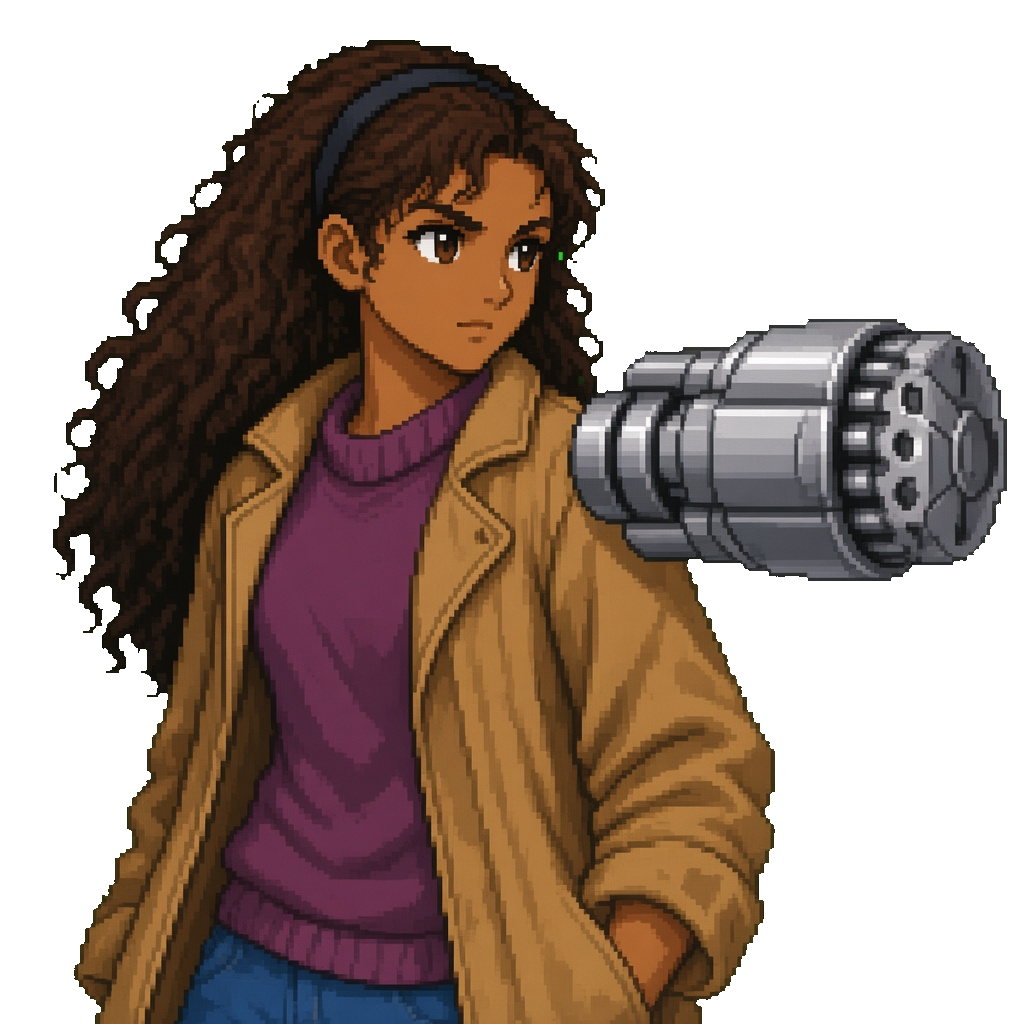
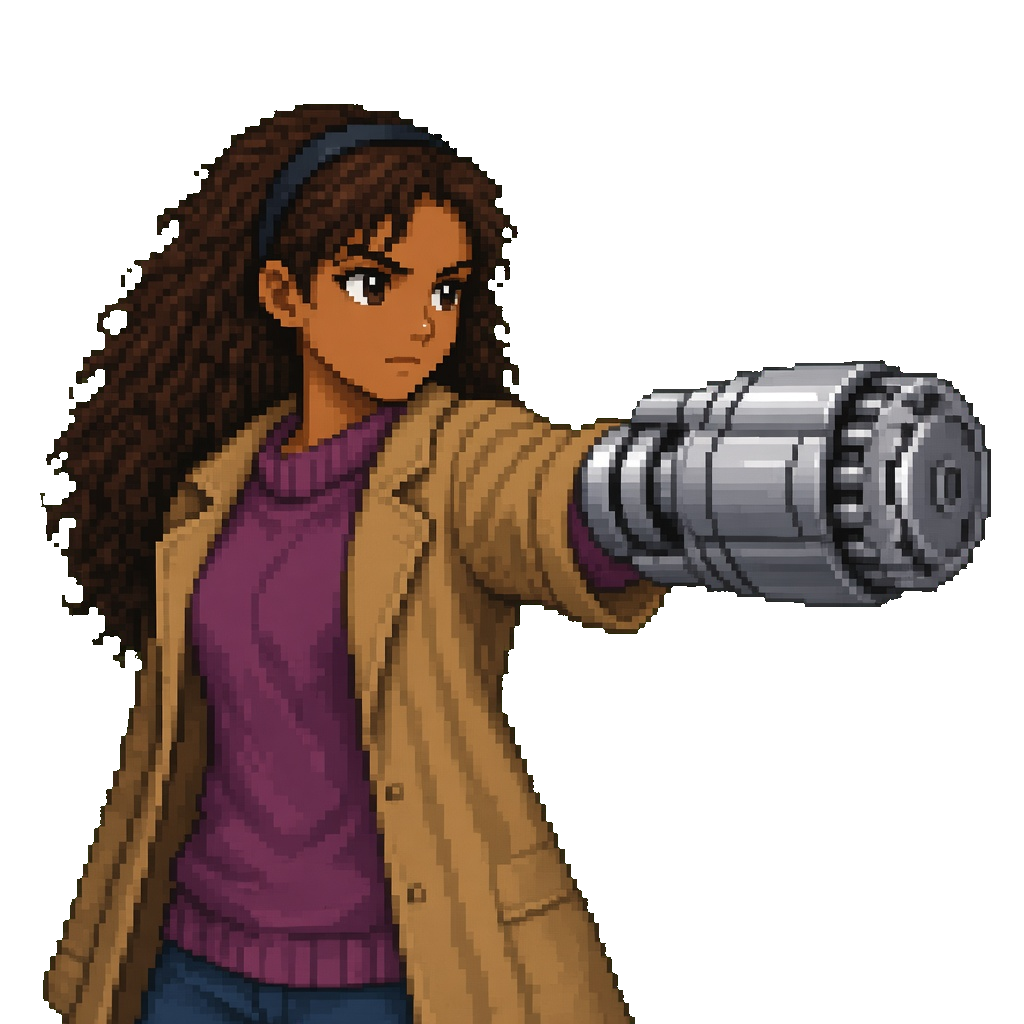
Ira portrait: blaster attached to forearm, loose outfit kept.

diff --git a/src/data/faceArt.js b/src/data/faceArt.js
@@ -48,7 +48,7 @@ export const FACE_ART = {
   holly: { key: 'face-holly', file: 'art-src/portraits/holly-face.png', box: [310, 75, 440, 440] },
   indy: { key: 'face-indy', file: 'art-src/portraits/indy-face.png', box: [292, 144, 440, 440] },
   iona: { key: 'face-iona', file: 'art-src/portraits/iona-face.png', box: [351, 149, 440, 440] },
-  ira: { key: 'face-ira', file: 'art-src/portraits/ira-face.png', box: [247, 178, 440, 440] },
+  ira: { key: 'face-ira', file: 'art-src/portraits/ira-face.png', box: [194, 249, 440, 440] },
   krypto: { key: 'face-krypto', file: 'art-src/portraits/krypto-face.png', box: [261, 215, 440, 440] },
   lana: { key: 'face-lana', file: 'art-src/portraits/lana-face.png', box: [343, 208, 440, 440] },
   lars: { key: 'face-lars', file: 'art-src/portraits/lars-face.png', box: [322, 184, 440, 440] },
